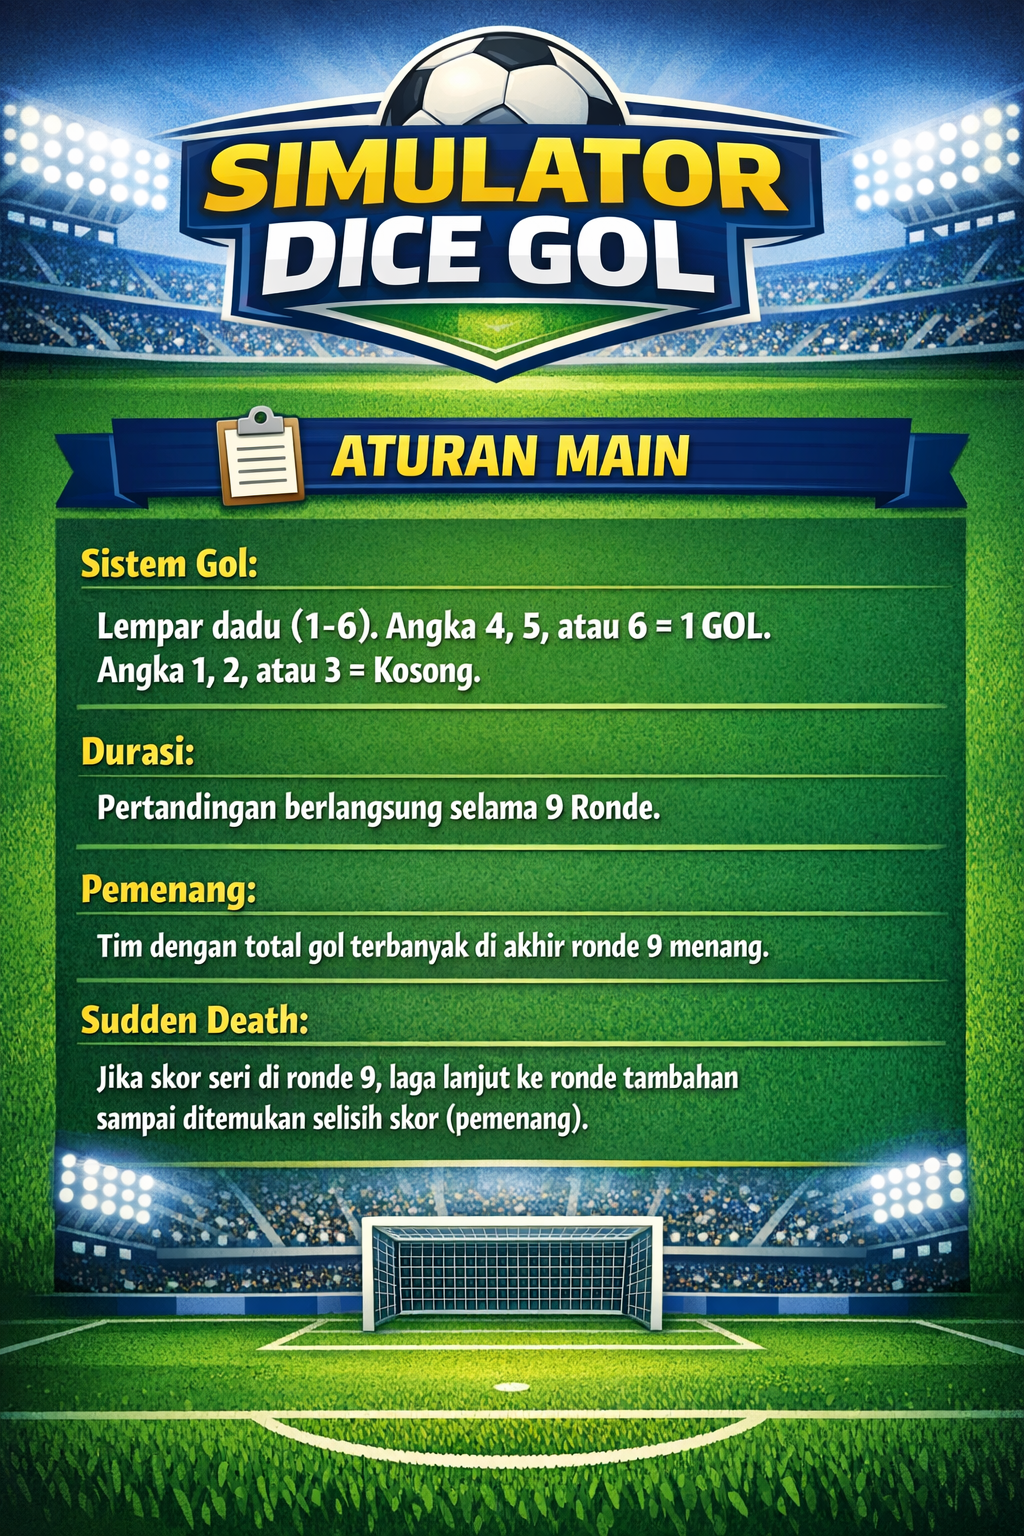
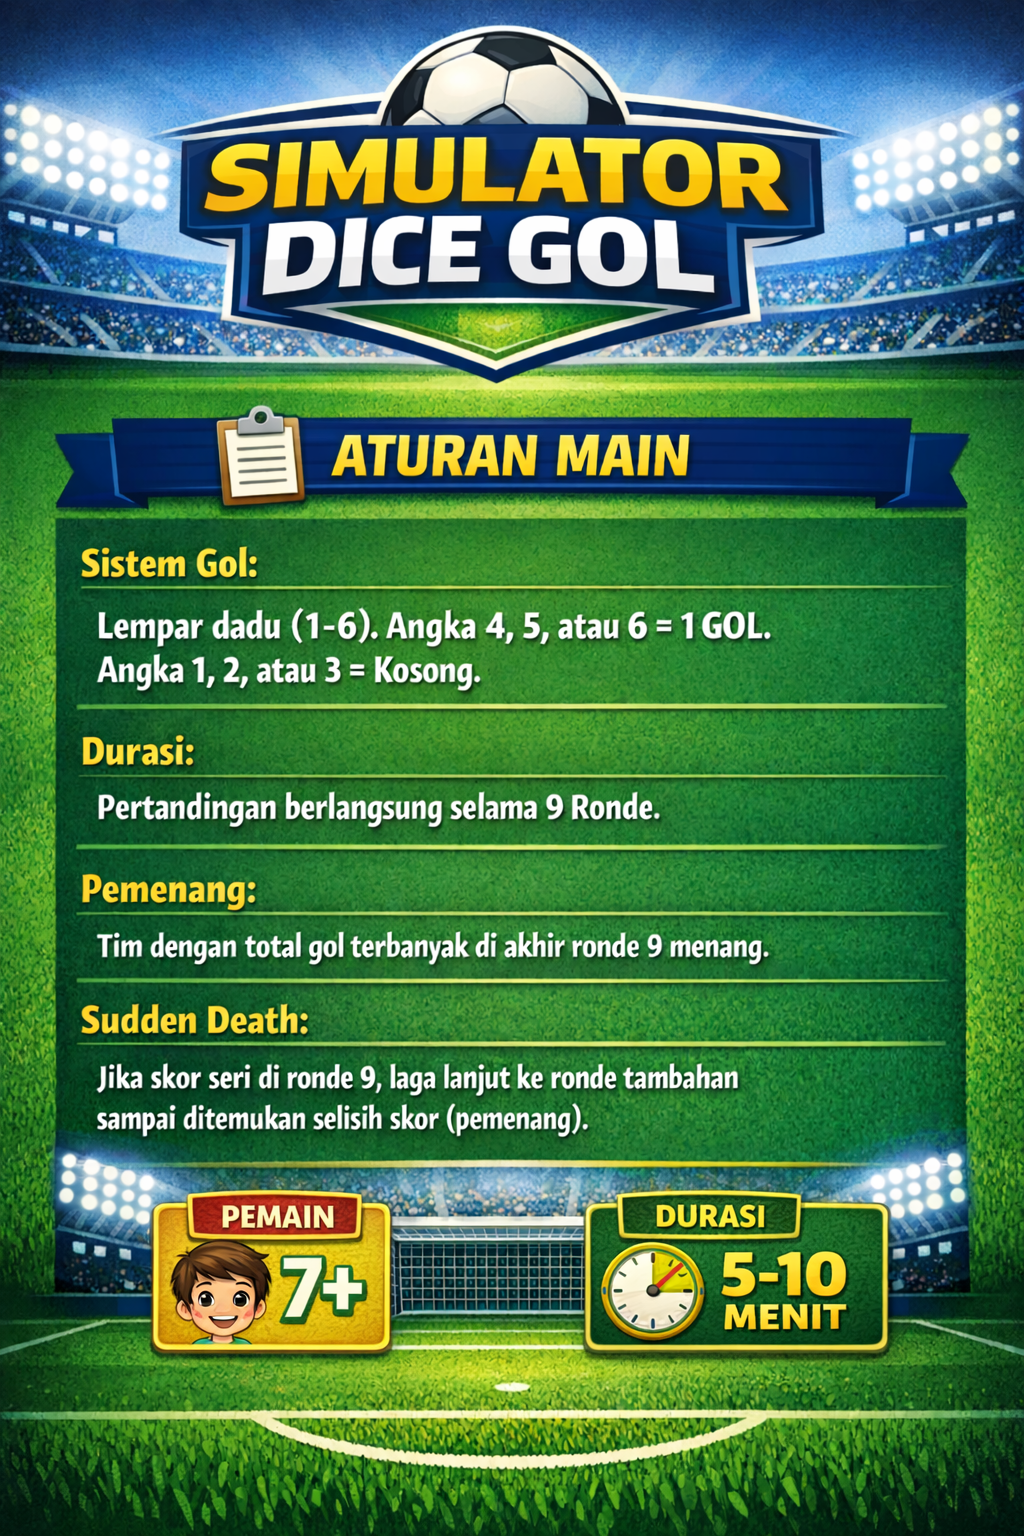
Add files via upload

diff --git a/index.html b/index.html
@@ -189,10 +189,36 @@
             opacity: 0.9;
         }
 
+        .popup {
+    display: none;
+    position: fixed;
+    inset: 0;
+    background: rgba(0,0,0,0.6);
+    justify-content: center;
+    align-items: center;
+    z-index: 999;
+}
+
+.popup-content {
+    background: white;
+    padding: 20px;
+    border-radius: 15px;
+    width: 90%;
+    max-width: 350px;
+    text-align: center;
+}
        
     </style>
 </head>
 <body>
+
+    <div id="rulePopup" class="popup">
+    <div class="popup-content">
+        <h3>RULEBOOK</h3>
+        <img src="rulebook.png" class="rulebook-img">
+        <button onclick="closeRule()">TUTUP</button>
+    </div>
+</div>
 
 <div id="loadingScreen">
     <img src="logo.png" alt="Logo" class="loading-logo" onerror="this.src='https://via.placeholder.com/150?text=LOGO'">
@@ -216,7 +242,7 @@
         </div>
 
         <button class="menu-btn" onclick="showScreen('draftArea')">MAIN SEKARANG</button>
-        <button class="menu-btn" onclick="showScreen('rulebookView')">CARA BERMAIN</button>
+        <button class="menu-btn" onclick="openRule()">CARA BERMAIN</button>
         <button id="btnGame">KGAME</button>
     </div>
     <div id="rulebookView" style="display:none;">
@@ -301,10 +327,15 @@
         else { music.pause(); btn.innerText = "🎵 MUSIK: OFF"; btn.style.background = "#6c5ce7"; }
     }
 
-    function showScreen(id) {
-        ['mainMenu', 'rulebookView', 'draftArea', 'gameArea'].forEach(s => document.getElementById(s).style.display = 'none');
-        document.getElementById(id).style.display = 'block';
-    }
+   function showScreen(id) {
+    const screens = ['mainMenu', 'rulebookView', 'draftArea', 'gameArea'];
+
+    screens.forEach(s => {
+        document.getElementById(s).style.display = 'none';
+    });
+
+    document.getElementById(id).style.removeProperty('display');
+}
 
     function init() {
         const pGrid = document.getElementById('playerGrid'), aGrid = document.getElementById('aiGrid');
@@ -386,6 +417,13 @@ tombol.onclick = function() {
     window.location.href = 'https://francopudge.github.io/game/';
 };
 
+function openRule() {
+    document.getElementById('rulePopup').style.display = 'flex';
+}
+
+function closeRule() {
+    document.getElementById('rulePopup').style.display = 'none';
+}
 </script>
 </body>
 </html>
